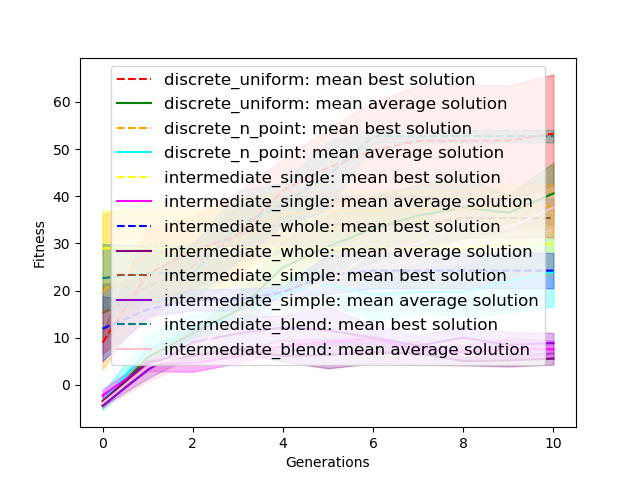
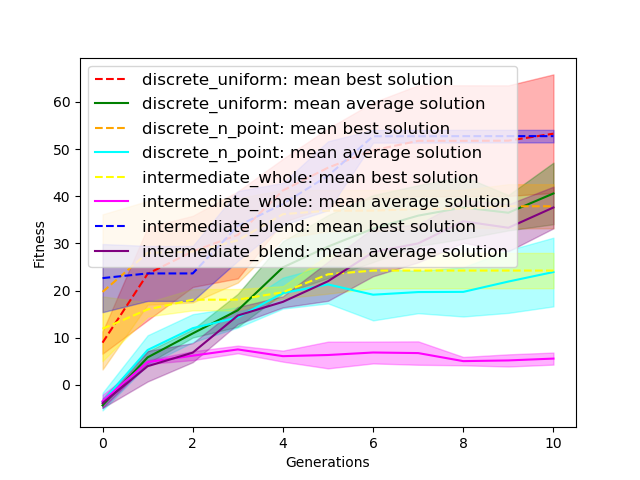
mutation tuning

diff --git a/EA_task2.py b/EA_task2.py
@@ -31,6 +31,8 @@ if len(sys.argv) > 6:
         crossover_var = 20  # random value for n point
     elif sys.argv[2] == 'intermediate_single':
         crossover_method = intermediate_single
+
+RUN: run status: enemy: 2; fitness: -5.313205979041787; player life: 0; enemy life: 100; time: 203
         crossover_var = 0.5
     elif sys.argv[2] == 'intermediate_whole':
         crossover_method = intermediate_whole
@@ -77,7 +79,7 @@ else:
     sys.exit(1)
 
 
-experiment_name = "results/task2/no_fitness_sharing"
+experiment_name = "results/task2/parameter_tuning/mutation_tuning/"
 os.makedirs(experiment_name, exist_ok=True)
 
 # initialize hidden neurons
@@ -105,7 +107,7 @@ class Population():
         self.generation = 0
         self.sharing = sharing
         self.original_fitness = []
-        
+        self.shared_fitnesses = []
         # create population
         self.pop = np.random.uniform(self.lower_bound, self.upper_bound,
                                      (self.size, self.n_weights))
@@ -124,10 +126,13 @@ class Population():
 
     def fitness_sharing(self, distance_matrix, fitness, sigma=None):
         denom = np.array([sum(1 - (i / sigma) if i <= sigma else 0 for i in l) 
-                          for l in distance_matrix])      
+                          for l in distance_matrix])
+        #With how many other agents an agent shares its fitness
+        self.shared_fitnesses = np.array([sum(1 if i <= sigma else 0 for i in l) 
+                          for l in distance_matrix])
         return (fitness / denom)
         
-    def calc_fitness(self, pop):
+    def calc_fitness(self, pop, sigma=2):
         results = np.array([env.play(pcont=x) for x in pop])
         fitness = results[:, 0]
         self.original_fitness = fitness
@@ -137,14 +142,14 @@ class Population():
         
         if self.sharing:
             distance_matrix = self.distance(pop)
-            return self.fitness_sharing(distance_matrix, fitness, sigma = 2)
+            return self.fitness_sharing(distance_matrix, fitness, sigma=sigma)
         else:
             return fitness
     
     def create_children(self, n_children, 
                         select_method=tournament_selection, select_var=None,
                         cross_method=intermediate_whole, cross_var=None,
-                        mutation_method=normal_mutation, mutation_var=None
+                        mutation_method=normal_mutation, mutation_var=None, sigma=2
                         ):
         # function that runs selection, crossover, mutation and returns n children
 
@@ -168,7 +173,7 @@ class Population():
 
         self.children = np.array(children)
         self.children_size = n_children
-        self.children_fitness = self.calc_fitness(self.children)
+        self.children_fitness = self.calc_fitness(self.children, sigma=sigma)
 
     
     def replace_new_gen(self, new_population, new_fitness):
@@ -186,13 +191,13 @@ class Population():
         self.generation += 1
 
 
-    def save_results(self, training_i, crossover, selection, survival, mutation, first_run=False):
+    def save_results(self, training_i, crossover, selection, survival, mutation, mut_var, first_run=False):
         best = np.argmax(self.fitness)
         std  =  np.std(self.fitness)
         mean = np.mean(self.fitness)
         best_performance = np.argmax(self.original_fitness)
         # saves results of this generation
-        file_results  = open(experiment_name+f'/results_enemy{env.enemies}_train{training_i}_{crossover}_{selection}_{survival}_mut{mutation}.txt','a')
+        file_results  = open(experiment_name+f'/results_enemy{env.enemies}_train{training_i}_{crossover}_{selection}_{survival}_mut{mutation}_{mut_var}.txt','a')
         if first_run:
             file_results.write('gen best mean std')
         print( '\n GENERATION '+str(self.generation)+' '+str(round(self.fitness[best],6))+' '+str(round(mean,6))+' '+str(round(std,6)))
@@ -200,7 +205,7 @@ class Population():
         file_results.close()
 
         # save weights
-        np.savetxt(experiment_name+f'/best_enemy{env.enemies}_train{training_i}_{crossover}_{selection}_{survival}_mut{mutation}.txt',self.pop[best_performance])
+        np.savetxt(experiment_name+f'/best_enemy{env.enemies}_train{training_i}_{crossover}_{selection}_{survival}_mut{mutation}_{mut_var}.txt',self.pop[best_performance])
 
 
     def __str__(self):
@@ -214,12 +219,12 @@ class Population():
 def simulate(training_i, n_pop, n_weights, n_children, n_generations, 
             cross_type, cross_method, select_type, select_method,
             surv_type, surv_method, mut_type, mut_method, mut_var, 
-            cross_var=0.5, select_var=5, stagnation_point=5, fitness_sharing=False):
+            cross_var=0.5, select_var=5, stagnation_point=5, fitness_sharing=False, sigma=2):
     # initialize population
     population = Population(n_pop, n_weights, sharing=fitness_sharing)
 
     # saves results for first pop
-    population.save_results(training_i, cross_type, select_type, surv_type, mut_type, first_run=True)
+    population.save_results(training_i, cross_type, select_type, surv_type, mut_type, mut_var, first_run=True)
 
     for i in range(n_generations):
         print('Generation: ', i+1)
@@ -234,23 +239,23 @@ def simulate(training_i, n_pop, n_weights, n_children, n_generations,
         population.create_children(n_children=n_children, 
                                 select_method=select_method, select_var=select_var,
                                 cross_method=cross_method, cross_var=cross_var, 
-                                mutation_method=mut_method, mutation_var=mutation_multiple*mut_var)
+                                mutation_method=mut_method, mutation_var=mutation_multiple*mut_var, sigma=sigma)
                                 
         # new_fitness, new_pop = survival_selection_fitness(population)
         indices = surv_method(population)
         population.original_fitness = population.original_fitness[indices]
+        population.shared_fitnesses = population.shared_fitnesses[indices]
         new_fitness = population.children_fitness[indices]
         new_pop = population.children[indices]
         #Always let the best of the previous population advance to the next generation
         best = np.argmax(population.original_fitness)
         new_pop[-1] = population.pop[best]
         new_fitness[-1] = population.fitness[best]
-        
         #Replace the population by its children
         population.replace_new_gen(new_pop, new_fitness)
         
         # save results for every generation
-        population.save_results(training_i, cross_type, select_type, surv_type, mut_type)
+        population.save_results(training_i, cross_type, select_type, surv_type, mut_type, mut_var)
 
 if __name__ == "__main__":
     # initialize number of trainings
@@ -259,12 +264,16 @@ if __name__ == "__main__":
     n_pop, n_weights = 30, (env.get_num_sensors()+1) * \
         n_hidden_neurons + (n_hidden_neurons+1)*5
     n_generations = 10
-    
     n_children = 90
+    sigmas_fitness = [0.5, 1, 1.5, 2]
+    mutation_var_normal = [0.1, 0.25, 0.5, 0.75, 1]
+    mutation_var_uniform = [0.01, 0.05, 0.1, 0.2]
 
     for i in range(n_training):
         print('Training iteration: ', i)
-        simulate(i, n_pop=n_pop, n_weights=n_weights, n_children=n_children, n_generations=n_generations, 
-        cross_type=sys.argv[2], cross_method=crossover_method, cross_var=crossover_var, select_type=sys.argv[3], 
-        select_method=selection_method, surv_type=sys.argv[4], surv_method=survival_method, 
-        mut_type=sys.argv[5], mut_method=mutation_method, mut_var=mutation_var, fitness_sharing=sharing)
+        # for sigma_ in sigmas_fitness:
+        for mutation_variable in mutation_var_normal:
+            simulate(i, n_pop=n_pop, n_weights=n_weights, n_children=n_children, n_generations=n_generations, 
+            cross_type=sys.argv[2], cross_method=crossover_method, cross_var=crossover_var, select_type=sys.argv[3], 
+            select_method=selection_method, surv_type=sys.argv[4], surv_method=survival_method, 
+            mut_type=sys.argv[5], mut_method=mutation_method, mut_var=mutation_variable, fitness_sharing=sharing)

diff --git a/visualize_plots.py b/visualize_plots.py
@@ -69,11 +69,11 @@ def line_plot(results, methods, colors, enemy, extra_print=None):
 
 if __name__ == "__main__":
     enemy = '[4, 5, 6]'
-    methods = ['discrete_uniform', 'discrete_n_point', 'intermediate_single', 'intermediate_whole', 'intermediate_simple', 'intermediate_blend']
+    methods = ['discrete_uniform', 'discrete_n_point', 'intermediate_whole', 'intermediate_blend']
     results = []
 
     for method in methods:
-        results_files = load_files('results/task2/', enemy, method)
+        results_files = load_files('results/task2/fitness_sharing/', enemy, method)
         result = preprocess_results(results_files)
         results.append(result)
 
